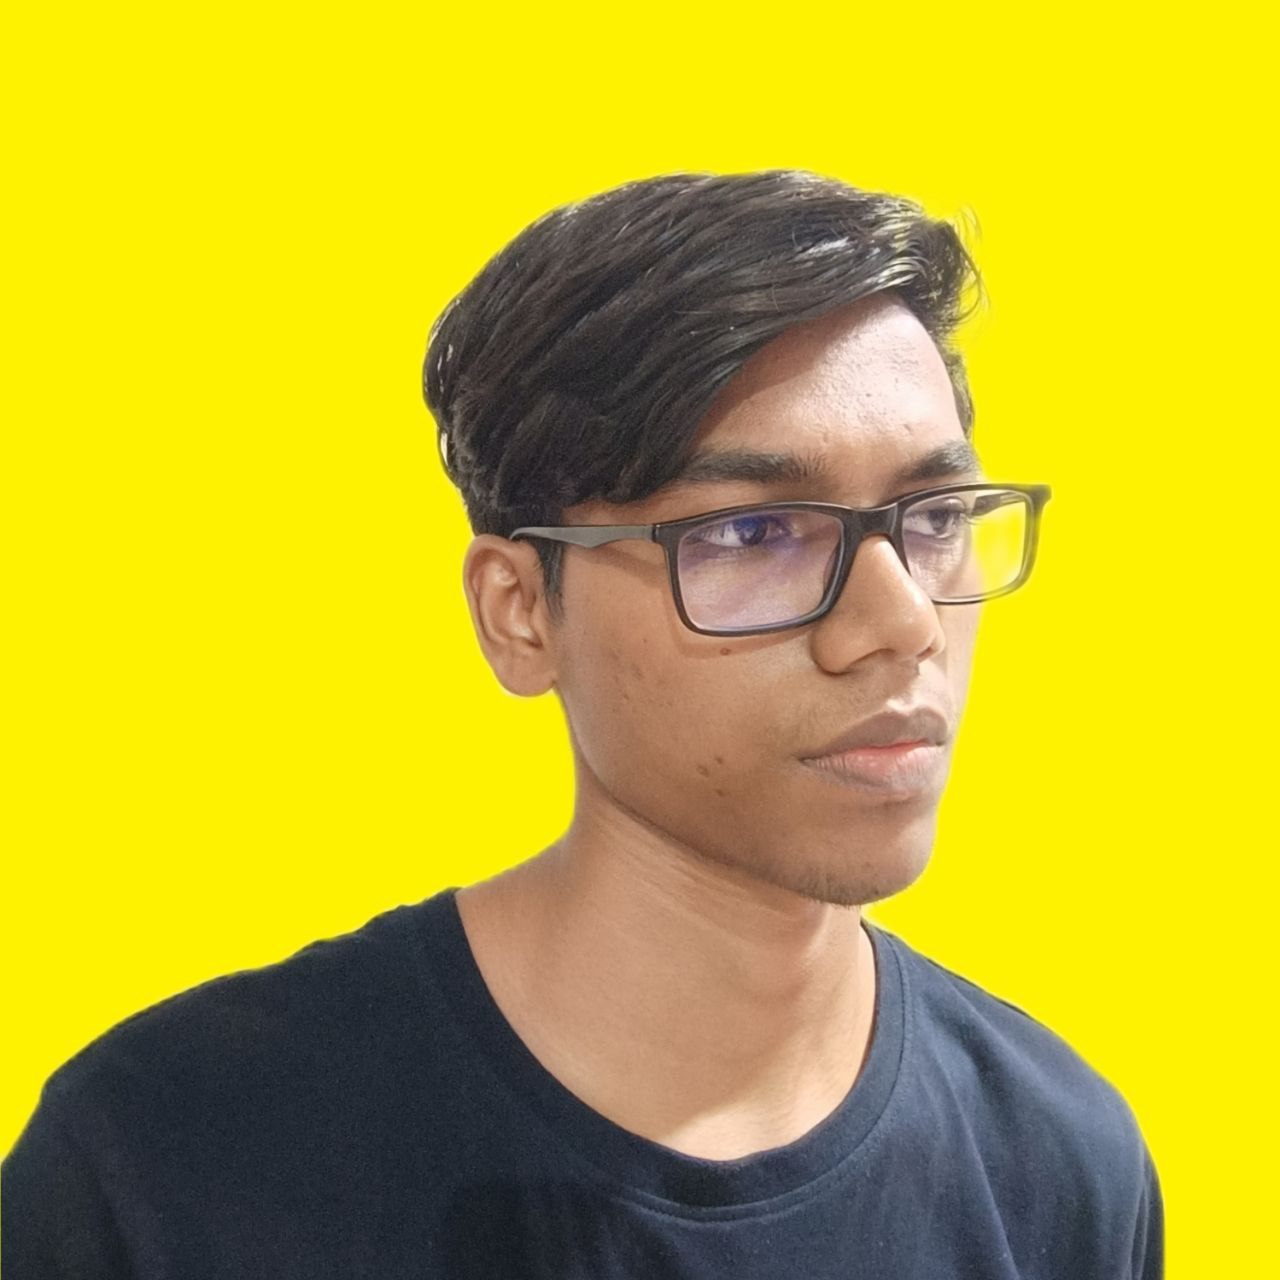
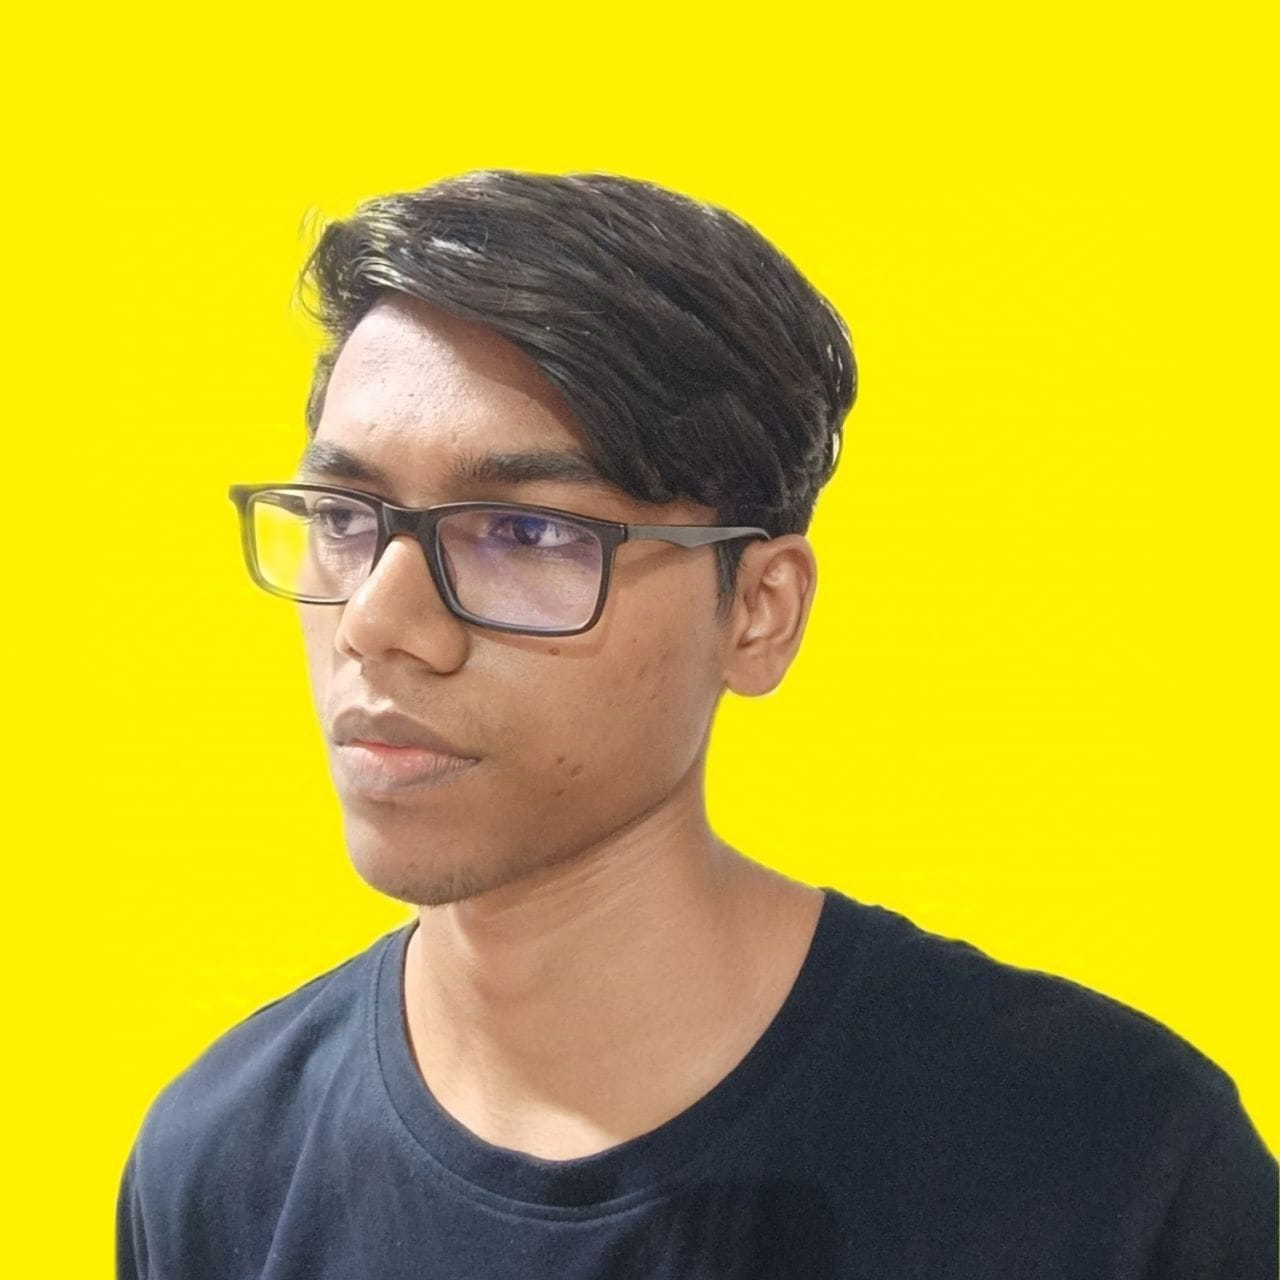
updated photo,projects,sound effects & marksheet

diff --git a/index.html b/index.html
@@ -8,8 +8,9 @@
     <link rel="preconnect" href="https://fonts.gstatic.com" crossorigin>
     <link href="https://fonts.googleapis.com/css2?family=Quantico:ital,wght@0,400;0,700;1,400;1,700&display=swap" rel="stylesheet">
     <link href='https://unpkg.com/boxicons@2.1.4/css/boxicons.min.css' rel='stylesheet'>
-    <link rel="stylesheet" href="https://cdnjs.cloudflare.com/ajax/libs/font-awesome/4.7.0/css/font-awesome.min.css">
+    <!-- <link rel="stylesheet" href="https://cdnjs.cloudflare.com/ajax/libs/font-awesome/4.7.0/css/font-awesome.min.css"> -->
     <link rel="stylesheet" href="style.css">
+    <link rel="stylesheet" href="https://cdnjs.cloudflare.com/ajax/libs/font-awesome/6.7.1/css/all.min.css">
 </head>
 <meta name="viewport" content="width=device-width, initial-scale=1.0">
 <body>
@@ -25,8 +26,10 @@
 
         <nav class="navbar">
             <a href="#home" class="logo">HRADAY <span id="sur">MACHHI</span></a>
+            <audio src="sound-effects/UI_button_click.ogg" id="myAudioElement"></audio>
 
             <div id="navbar">
+                <audio id="navbarAudioElement" src="sound-effects/navbar-hover.wav"></audio>
             <a href="#home" class="active">Home</a>
             <a href="#education">Education</a>
             <a href="#services">Services</a>
@@ -79,7 +82,7 @@
                             <p>PERCENTAGE: 77.77%
                                 <br>BOARD: GSEB
                                 <br>SCHOOL:  SHREE AMBE VIDHYALAYA</p><br>
-                                <a>Marksheet</a>
+                                <a href="https://drive.google.com/file/d/1o_f_LgrxYY5yhBXxq0Wg4KO8L8uEQ8fF/view?usp=drive_link" target="_blank">Marksheet</a>
                             </p>
                         </div>          
                     </div>
@@ -92,6 +95,7 @@
                                     <p>PERCENTAGE: 67.77%<br>
                                         BOARD: GSEB<br>
                                         SCHOOL:  Shree Swami Vivekanand Vidhyalaya-2</p>
+                                        <a href="https://drive.google.com/file/d/1aW_WbTbhLOCk9UZ6ownt7_euef1_MhXy/view?usp=drive_link" target="_blank">Marksheet</a>
                                     </p>
                                 </div>
                             </div>
@@ -104,7 +108,11 @@
                                             <h3>College</h3>
                                             <p>SPI:7.84<br>
                                             BOARD:GTU<br>
-                                            COLLEGE:Sardar Vallabhbhai Patel Institute of Technology
+                                            COLLEGE:Sardar Vallabhbhai Patel Institute of Technology</p>
+                                            <a href="https://drive.google.com/file/d/1pAukVAtGYRazDSJpLN1v4i8EE3DiCv1Y/view?usp=drive_link" target="_blank">Sem-1 Ms</a>
+                                            <a href="https://drive.google.com/file/d/1y8SvH0iCkoWEM5IYfUfMonyBgaue4LAh/view?usp=sharing" target="_blank">Sem-2 Ms</a>
+                                            <a href="https://drive.google.com/file/d/1kgonhM2iKGvw1BM7L7iWwYmNyIsIsmF5/view?usp=drive_link" target="_blank">Sem-3 Ms</a>
+                                            <a href="https://drive.google.com/file/d/1iaeqYoS9D5xj03NM9WIlGDQVTpCwUpDM/view?usp=drive_link" target="_blank">Sem-4 Ms</a>
                                         </div>
                                     </div>     
             </div>
@@ -147,7 +155,52 @@
         <section class="projects" id="projects">
                 <h2 class="heading">Projects</h2>
         <div class="projects-box">
-                <h4>Taskmaster</h4>
+                <h3><a href="https://66750876769ada179d58df58--kaleidoscopic-dragon-650c5a.netlify.app/" target="_blank">=> Taskmaster</a></h3> <br>
+                <p>Taskmaster is a web app built with React.js and Tailwind CSS, offering an intuitive task management tool. Features include:</p>
+
+                    <ul>- Editing, deleting, and completing tasks</ul>
+                    <ul>- Filtering completed tasks</ul>
+                    <ul>-Clean,modern interface</ul>
+                    
+                  <p>Taskmaster helps users stay organized, focused, and productive, making it easier to conquer their to-do lists.</p>
+
+                  <br>
+                  <hr>
+                  <br>
+                  <br>
+
+                <h3><a href="https://taupe-panda-2ceef5.netlify.app/" target="_blank">=> Music Player</a></h3>
+                <p>Introducing MusicPlayer, a web-based music player. This JavaScript-powered platform stores songs in a JS file, allowing users to play, pause, and navigate through tracks. Features include: </p>
+                    
+                   <ul>- Interactive playback controls</ul>
+                    <ul>- Track listing and navigation</ul>
+                   <ul>- Simple, responsive design</ul>
+                    
+                   <p> MusicHub provides an elegant and user-friendly music streaming experience.</p>
+
+                   <br>
+                   <hr>
+                   <br>
+                   <br>
+
+                <h3><a href="https://hraday04.github.io/SimonSays/" target="_blank">=> Simon Says</a></h3>
+                <p>Introducing Simon Says Game!</p>
+                    
+                    <ul>*Game Rules:*</ul>
+                    
+                    <ul>1. Follow color sequences commanded by Simon.</ul>
+                    <ul>2. Repeat sequence by clicking colors.</ul>
+                    <ul>3. Failure to match sequence ends game.</ul>
+                    
+                    <ul>*Website Features:*</ul>
+                    
+                    <ul>- Interactive 4-color grid (red, green, yellow, blue)</ul>
+                    <ul>- Randomized Simon commands</ul>
+                    <ul>- Score tracking</ul>
+                    <ul>- Responsive design</ul>
+                    <ul>- Simple, intuitive gameplay</ul>
+                    
+                    <p>Test your memory and reflexes!</p>
         </div>
         </section>
 
@@ -176,10 +229,17 @@
 
             <footer class="footer">
                 <div class="social">
-                    <a href="https://www.linkedin.com/in/hraday-machhi-5a881b291/" class="soc" target="main"><img src="linkedin.jpeg"></a>
-                    <a href="https://github.com/Hraday04" class="soc" target="main"><img src="github.jpeg"></a>
-                    <a href="https://www.instagram.com/rishi_s_back/" class="soc" target="main"><img src="instagram-brands-solid.svg" style="background-color: white"></a>
-                    <a href="https://x.com/HradayMachhi" class="soc" target="main"><img src="x.jpeg"></a>
+                    <!-- <a href="https://www.linkedin.com/in/hraday-machhi-5a881b291/" class="soc" target="main"><img src="linkedin.jpeg"></a> -->
+                    <a href="https://www.linkedin.com/in/hraday-machhi-5a881b291/" class="soc" target="_blank"><i class="fa-brands fa-linkedin-in"></i></a>
+
+                    <!-- <a href="https://github.com/Hraday04" class="soc" target="main"><img src="github.jpeg"></a> -->
+                    <a href="https://github.com/Hraday04" class="soc" target="_blank"><i class="fa-brands fa-github"></i></a>
+
+                    <!-- <a href="https://www.instagram.com/rishi_s_back/" class="soc" target="main"><img src="instagram-brands-solid.svg" style="background-color: white"></a> -->
+                    <a href="https://www.instagram.com/Deepak_ka_laal_" class="soc" target="_blank"><i class="fa-brands fa-instagram"></i></a>
+
+                    <!-- <a href="https://x.com/HradayMachhi" class="soc" target="main"><img src="x.jpeg"></a> -->
+                    <a href="https://x.com/HradayMachhi" class="soc" target="_blank"><i class="fa-brands fa-x-twitter"></i></a>
                 </div>
 
                 <ul class="list">
@@ -200,7 +260,7 @@
                     </li>
 
                     <li>
-                        <a href="#testimonials">Testimonials</a>
+                        <a href="#projects">Projects</a>
                     </li>
                 </ul>
 
@@ -209,3 +269,7 @@
 </body>
 <script src="script.js"></script>
 </html>
+
+
+
+

diff --git a/style.css b/style.css
@@ -473,6 +473,50 @@ a.logo{
     justify-content: left;
 }
 
+.timeline-content a{
+color: yellow;
+margin: 5px;
+}
+
+.projects .heading:hover{
+    color: white;
+    transition: 0.3s ease-in-out;
+}
+
+.projects-box{
+    padding: 50px 15px;
+    background: black;
+}
+
+.projects-box a{
+    color: white;
+    margin: 5px;
+}
+
+.projects-box p{
+    font-size: 20px;
+    margin-left: 15px;
+}
+
+.projects-box ul{
+    font-size: 20px;
+    margin-left: 15px;
+}
+
+.projects-box h3{
+    font-size: 35px;
+    margin-top: 20px;
+    margin-left: 20px;
+    margin-right: 20px;
+    margin-bottom: 20px;
+}
+
+.projects-box h3 a:hover{
+    color: yellow;
+    transition: 0.3s ease-in-out;
+    text-decoration: underline;
+}
+
 
 .timeline-items::before{
     content: "";
@@ -918,3 +962,4 @@ h2.heading{
         grid-template-columns: repeat(1,1fr);
     }
 }
+

diff --git a/script.js b/script.js
@@ -31,5 +31,25 @@ menuIcon.onclick = () =>{
         }
 }
 
+//Set up the audio elements
+
+let logo = document.querySelector('.logo');
+let homeImg = document.querySelector('.home-img');
+let myAudioElement = document.querySelector('#myAudioElement'); 
+let navbarAudioElement = document.querySelector('#navbarAudioElement');
+
+logo.onmouseover = () => {
+    myAudioElement.play();
+};
+
+homeImg.onmouseover = () => {
+    myAudioElement.play();
+};
+
+navbar.onclick = () => {
+    navbarAudioElement.play();
+};
+
+
     
 
